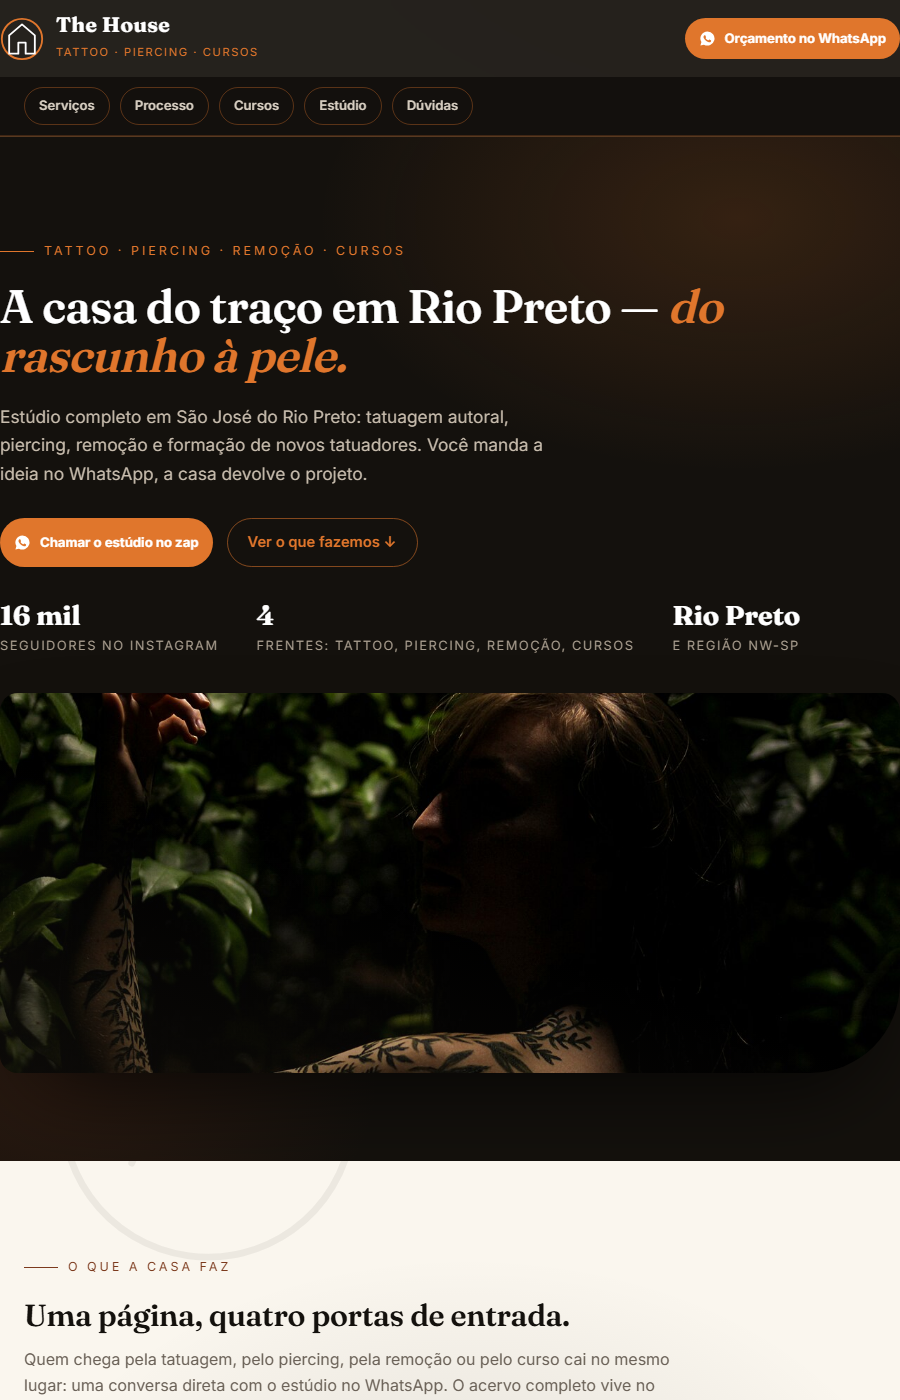
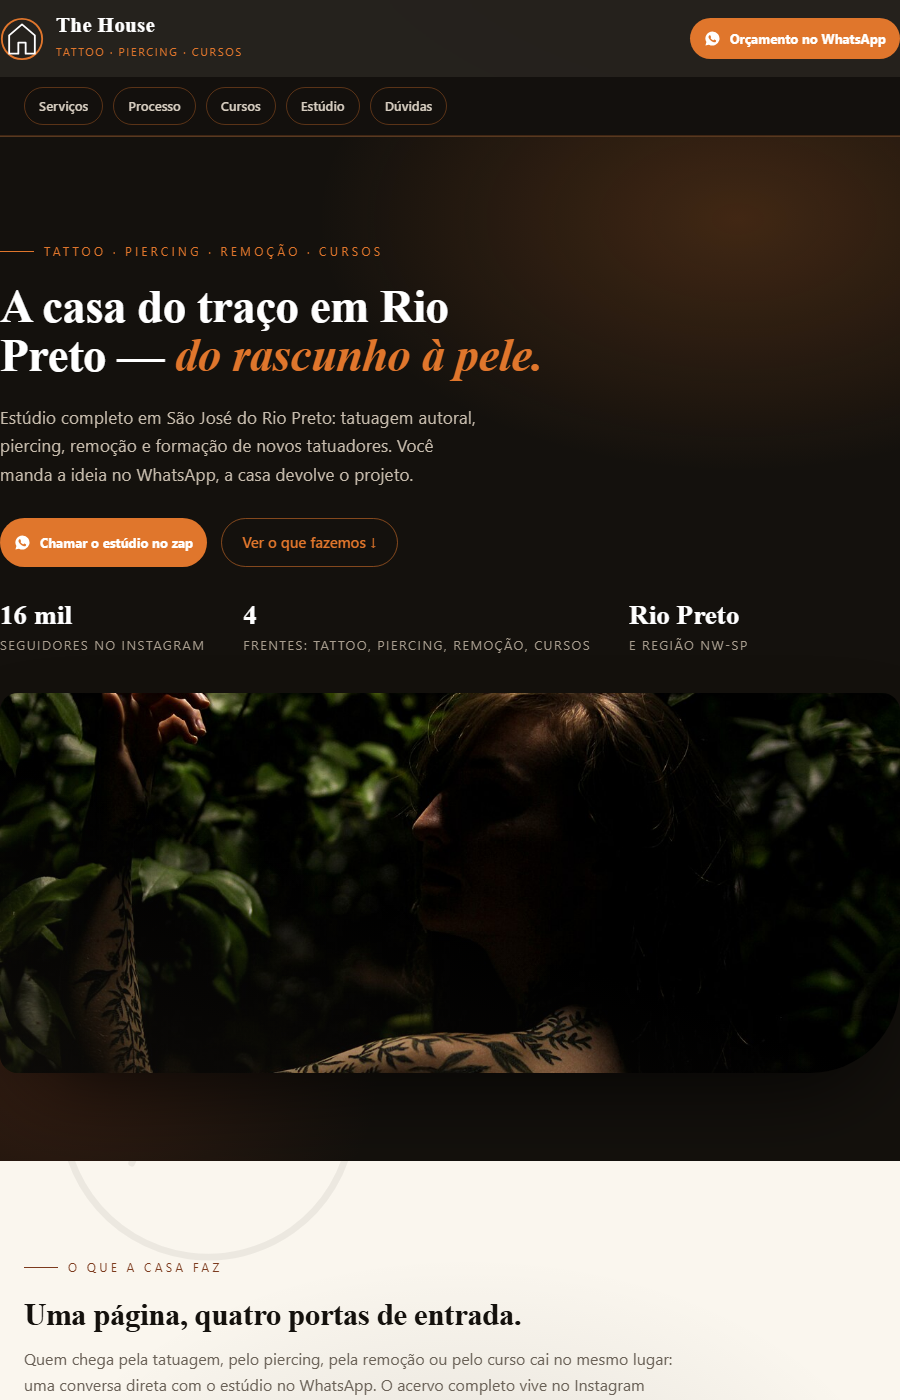
protos: publica the-house,moiseis-ink-style (gate R5: 0/10 1/10 )

diff --git a/p/moiseis-ink-style/index.html b/p/moiseis-ink-style/index.html
@@ -53,10 +53,10 @@ html{scroll-behavior:smooth}
 body{font-family:'Inter',system-ui,sans-serif;color:var(--steel);background:var(--paper);line-height:1.65}
 img{max-width:100%;display:block}
 a{text-decoration:none;color:inherit}
-h1,h2,h3,.disp{font-family:'Fraunces',serif;font-weight:600;letter-spacing:-.01em}
+h1,h2,h3,.disp{font-family:'Fraunces',serif;font-weight:600;letter-spacing:-.01em;text-wrap:balance}
 .wrap{max-width:1120px;margin:0 auto;padding:0 24px}
 /* layered ambient background: ink in water */
-.bg{position:fixed;inset:0;z-index:-1;background:
+.bg{position:fixed;inset:0;z-index:-1;overflow:hidden;background:
   radial-gradient(960px 500px at 88% -6%, rgba(208,69,62,.10), transparent 60%),
   radial-gradient(780px 440px at -6% 28%, rgba(124,135,148,.14), transparent 58%),
   radial-gradient(720px 500px at 54% 110%, rgba(14,17,22,.09), transparent 60%),
@@ -70,7 +70,7 @@ header{position:sticky;top:0;z-index:60;background:rgba(14,17,22,.93);backdrop-f
 .brand{display:flex;align-items:center;gap:12px;color:#fff}
 .logo{width:44px;height:44px;flex:none}
 .brand b{font-family:'Fraunces';font-size:1.3rem;letter-spacing:.02em;display:block;line-height:1.1}
-.brand small{color:var(--crimson);font-size:.7rem;letter-spacing:.22em;text-transform:uppercase}
+.brand small{color:#e56a62;font-size:.7rem;letter-spacing:.22em;text-transform:uppercase}
 nav{display:flex;gap:24px;font-size:.9rem;font-weight:500}
 nav a{color:#c9d0d9;transition:color .2s}
 nav a:hover{color:var(--crimson)}
@@ -79,6 +79,7 @@ nav a:hover{color:var(--crimson)}
 .mnav a{flex:none;color:#c9d0d9;font-size:.82rem;font-weight:600;padding:7px 14px;border:1px solid rgba(208,69,62,.4);border-radius:999px;white-space:nowrap}
 .mnav a:active{background:rgba(208,69,62,.16)}
 .cta{display:inline-flex;align-items:center;gap:9px;background:var(--crimson);color:#fff;font-weight:700;font-size:.92rem;padding:11px 20px;border-radius:999px;transition:transform .18s, background .18s;white-space:nowrap}
+.cta-mini{display:none}
 .cta:hover{transform:translateY(-2px);background:#e2574f}
 .cta svg{width:17px;height:17px}
 /* hero */
@@ -96,10 +97,12 @@ nav a:hover{color:var(--crimson)}
 .ghost{display:inline-flex;align-items:center;gap:9px;border:1px solid rgba(208,69,62,.55);color:var(--crimson);font-weight:600;font-size:.92rem;padding:11px 20px;border-radius:999px}
 .ghost:hover{background:rgba(208,69,62,.12)}
 .hero-img{position:relative;border-radius:18px 18px 90px 18px;overflow:hidden;box-shadow:0 40px 90px -30px rgba(0,0,0,.75)}
-.hero-img img{width:100%;height:520px;object-fit:cover;object-position:center 32%}
+.hero-img img{width:100%;height:520px;object-fit:cover;object-position:center 32%;filter:brightness(1.28) contrast(1.04) saturate(1.05)}
+.hero .eyebrow{color:#e56a62}
+.hero .eyebrow::before{background:#e56a62}
 .hero-img::after{content:"";position:absolute;inset:0;background:linear-gradient(200deg,transparent 55%,rgba(14,17,22,.55))}
 .stats{display:flex;gap:38px;margin-top:34px;flex-wrap:wrap}
-.stat b{font-family:'Fraunces';font-size:1.7rem;color:#fff;display:block;line-height:1.1}
+.stat b{font-family:'Fraunces';font-size:1.7rem;color:#fff;display:block;line-height:1.1;font-variant-numeric:lining-nums;font-feature-settings:"lnum" 1}
 .stat span{font-size:.8rem;letter-spacing:.12em;text-transform:uppercase;color:#8d99a6}
 /* sections */
 section{padding:88px 0}
@@ -109,13 +112,13 @@ section{padding:88px 0}
 .sec-head h2{font-size:clamp(1.8rem,3.4vw,2.6rem);line-height:1.12}
 .sec-head p{margin-top:14px;color:var(--mut)}
 .grid3{display:grid;grid-template-columns:repeat(3,1fr);gap:22px}
-.card{background:#fff;border:1px solid var(--line);border-radius:16px;overflow:hidden;transition:transform .2s,box-shadow .2s}
+.card{background:#fff;border:1px solid var(--line);border-radius:16px;overflow:hidden;transition:transform .2s,box-shadow .2s;display:flex;flex-direction:column}
 .card:hover{transform:translateY(-4px);box-shadow:0 24px 48px -20px rgba(14,17,22,.26)}
 .card img{height:250px;width:100%;object-fit:cover}
-.card .body{padding:20px 22px 24px}
+.card .body{padding:20px 22px 24px;display:flex;flex-direction:column;flex:1}
 .card h3{font-size:1.22rem;margin-bottom:8px}
 .card p{color:var(--mut);font-size:.95rem}
-.card a.pricelink{display:inline-flex;align-items:center;gap:7px;margin-top:14px;font-weight:700;font-size:.88rem;color:var(--oxblood)}
+.card a.pricelink{display:inline-flex;align-items:center;gap:7px;margin-top:auto;padding-top:14px;font-weight:700;font-size:.88rem;color:var(--oxblood)}
 .tag{display:inline-block;font-size:.72rem;font-weight:600;letter-spacing:.14em;text-transform:uppercase;color:var(--oxblood);background:rgba(138,38,34,.08);padding:5px 12px;border-radius:999px;margin-bottom:12px}
 /* process */
 .process{background:var(--steel);color:var(--bone)}
@@ -130,7 +133,7 @@ section{padding:88px 0}
 /* artist split */
 .split{display:grid;grid-template-columns:1fr 1fr;gap:56px;align-items:center}
 .split .pic{border-radius:16px 90px 16px 16px;overflow:hidden;box-shadow:0 30px 60px -24px rgba(14,17,22,.42)}
-.split .pic img{width:100%;height:440px;object-fit:cover}
+.split .pic img{width:100%;height:440px;object-fit:cover;filter:brightness(1.12) contrast(1.05)}
 .split h2{font-size:clamp(1.7rem,3vw,2.4rem);margin-bottom:16px}
 .split p{color:var(--mut);margin-bottom:14px}
 .check{list-style:none;margin:20px 0 28px}
@@ -179,6 +182,11 @@ footer{background:var(--steel);color:#8d99a6;padding:56px 0 40px;font-size:.9rem
   .hero-grid{padding:64px 0 56px}
   .quote{padding:34px}
   .stats{gap:22px}
+  .cta-full{display:none}
+  .cta-mini{display:inline}
+  header .cta{padding:10px 14px;font-size:.8rem}
+  .mnav{gap:6px;padding:10px 12px}
+  .mnav a{padding:6px 10px;font-size:.74rem}
 }
 </style>
 </head>
@@ -202,7 +210,7 @@ footer{background:var(--steel);color:#8d99a6;padding:56px 0 40px;font-size:.9rem
     </nav>
     <a class="cta" href="https://wa.me/5517991542307?text=Ol%C3%A1%2C%20Moiseis!%20Quero%20um%20or%C3%A7amento%20de%20tatuagem." target="_blank" rel="noopener">
       <svg viewBox="0 0 24 24" fill="currentColor" aria-hidden="true"><path d="M12 2a10 10 0 0 0-8.6 15.1L2 22l5-1.3A10 10 0 1 0 12 2Zm5.2 14.1c-.2.6-1.3 1.2-1.8 1.2-.5.1-1 .2-3.3-.7-2.8-1.1-4.5-3.9-4.7-4.1-.1-.2-1-1.4-1-2.6 0-1.2.6-1.8.9-2.1.2-.2.5-.3.7-.3h.5c.2 0 .4 0 .6.5l.8 1.9c.1.2.1.4 0 .5l-.4.6c-.1.2-.3.3-.1.6.1.3.7 1.1 1.5 1.7 1 .8 1.7 1.1 2 1.2.2.1.4.1.6-.1l.7-.8c.2-.2.4-.2.6-.1l1.8.9c.3.1.4.2.5.3-.1.2-.1.8-.5 1.4Z"/></svg>
-      Orçamento no WhatsApp
+      <span class="cta-full">Orçamento no WhatsApp</span><span class="cta-mini">Orçamento</span>
     </a>
   </div>
   <nav class="mnav" aria-label="Navegação mobile">
@@ -274,7 +282,8 @@ footer{background:var(--steel);color:#8d99a6;padding:56px 0 40px;font-size:.9rem
         </article>
         <article class="card">
           <img src="https://thumb.wikimedia.org/wikipedia/commons/thumb/2/22/00B-Axys_Valhalia_pen_rotary_style_tattoo_machine_with_tape_wrapped_around_tattoo_machine_to_increase_hand_stability_and_ergonomic_health.jpg/960px-00B-Axys_Valhalia_pen_rotary_style_tattoo_machine_with_tape_wrapped_around_tattoo_machine_to_increase_hand_stability_and_ergonomic_health.jpg" alt="Caneta rotary com wrap sanitário em luva — assepsia visível, imagem ilustrativa (CC Wikimedia)" loading="lazy">
-          <div class="body"><span class="tag">Estúdio</span><h3>Ambiente próprio, assepsia visível</h3><p>Material descartável, equipamento wrapado e sala reservada — higiene que você vê antes de deitar.</p></div>
+          <div class="body"><span class="tag">Estúdio</span><h3>Ambiente próprio, assepsia visível</h3><p>Material descartável, equipamento wrapado e sala reservada — higiene que você vê antes de deitar.</p>
+            <a class="pricelink" href="https://wa.me/5517991542307?text=Ol%C3%A1!%20Quero%20conhecer%20o%20est%C3%BAdio%20e%20agendar." target="_blank" rel="noopener">Conhecer o estúdio →</a></div>
         </article>
       </div>
     </div>

diff --git a/p/the-house/index.html b/p/the-house/index.html
@@ -55,10 +55,10 @@ html{scroll-behavior:smooth}
 body{font-family:'Inter',system-ui,sans-serif;color:var(--void);background:var(--paper);line-height:1.65}
 img{max-width:100%;display:block}
 a{text-decoration:none;color:inherit}
-h1,h2,h3,.disp{font-family:'Fraunces',serif;font-weight:600;letter-spacing:-.01em}
+h1,h2,h3,.disp{font-family:'Fraunces',serif;font-weight:600;letter-spacing:-.01em;text-wrap:balance}
 .wrap{max-width:1120px;margin:0 auto;padding:0 24px}
 /* layered ambient background: ember light through smoke */
-.bg{position:fixed;inset:0;z-index:-1;background:
+.bg{position:fixed;inset:0;z-index:-1;overflow:hidden;background:
   radial-gradient(980px 520px at 90% -8%, rgba(224,118,44,.14), transparent 60%),
   radial-gradient(820px 460px at -8% 26%, rgba(124,58,29,.10), transparent 58%),
   radial-gradient(760px 520px at 52% 112%, rgba(20,17,13,.10), transparent 60%),
@@ -81,18 +81,19 @@ nav a:hover{color:var(--ember)}
 .mnav a{flex:none;color:#d8cfc2;font-size:.82rem;font-weight:600;padding:7px 14px;border:1px solid rgba(224,118,44,.35);border-radius:999px;white-space:nowrap}
 .mnav a:active{background:rgba(224,118,44,.18)}
 .cta{display:inline-flex;align-items:center;gap:9px;background:var(--ember);color:#fff;font-weight:700;font-size:.92rem;padding:11px 20px;border-radius:999px;transition:transform .18s, background .18s;white-space:nowrap}
+.cta-mini{display:none}
 .cta:hover{transform:translateY(-2px);background:#f08a42}
 .cta svg{width:17px;height:17px}
 /* hero */
 .hero{position:relative;color:var(--bone);overflow:hidden;background:var(--void)}
 .hero::before{content:"";position:absolute;inset:0;background:
-  radial-gradient(700px 420px at 82% 8%, rgba(224,118,44,.16), transparent 60%),
-  radial-gradient(560px 380px at 6% 92%, rgba(124,58,29,.22), transparent 58%);}
+  radial-gradient(700px 420px at 82% 8%, rgba(224,118,44,.22), transparent 60%),
+  radial-gradient(560px 380px at 6% 92%, rgba(124,58,29,.30), transparent 58%);}
 .hero-grid{position:relative;display:grid;grid-template-columns:1.05fr .95fr;gap:56px;align-items:center;padding:96px 0 88px}
 .eyebrow{display:inline-flex;align-items:center;gap:10px;font-size:.78rem;letter-spacing:.24em;text-transform:uppercase;color:var(--ember);margin-bottom:20px}
 .eyebrow::before{content:"";width:34px;height:1px;background:var(--ember)}
 .hero h1{font-size:clamp(2.4rem,5.2vw,4.1rem);line-height:1.06;color:#fff}
-.hero h1 em{font-style:italic;color:var(--ember)}
+.hero h1 em{font-style:italic;color:var(--ember);white-space:nowrap}
 .hero p.lead{margin:22px 0 30px;color:#c8bdae;font-size:1.08rem;max-width:52ch}
 .hero-cta{display:flex;gap:14px;flex-wrap:wrap}
 .ghost{display:inline-flex;align-items:center;gap:9px;border:1px solid rgba(224,118,44,.55);color:var(--ember);font-weight:600;font-size:.92rem;padding:11px 20px;border-radius:999px}
@@ -101,7 +102,7 @@ nav a:hover{color:var(--ember)}
 .hero-img img{width:100%;height:520px;object-fit:cover;object-position:center 30%}
 .hero-img::after{content:"";position:absolute;inset:0;background:linear-gradient(200deg,transparent 55%,rgba(20,17,13,.6))}
 .stats{display:flex;gap:38px;margin-top:34px;flex-wrap:wrap}
-.stat b{font-family:'Fraunces';font-size:1.7rem;color:#fff;display:block;line-height:1.1}
+.stat b{font-family:'Fraunces';font-size:1.7rem;color:#fff;display:block;line-height:1.1;font-variant-numeric:lining-nums;font-feature-settings:"lnum" 1}
 .stat span{font-size:.8rem;letter-spacing:.12em;text-transform:uppercase;color:#a99e8f}
 /* sections */
 section{padding:88px 0}
@@ -112,13 +113,13 @@ section{padding:88px 0}
 .sec-head p{margin-top:14px;color:var(--mut)}
 /* services grid */
 .grid3{display:grid;grid-template-columns:repeat(3,1fr);gap:22px}
-.card{background:#fff;border:1px solid var(--line);border-radius:16px;overflow:hidden;transition:transform .2s,box-shadow .2s}
+.card{background:#fff;border:1px solid var(--line);border-radius:16px;overflow:hidden;transition:transform .2s,box-shadow .2s;display:flex;flex-direction:column}
 .card:hover{transform:translateY(-4px);box-shadow:0 24px 48px -20px rgba(20,17,13,.28)}
 .card img{height:250px;width:100%;object-fit:cover}
-.card .body{padding:20px 22px 24px}
+.card .body{padding:20px 22px 24px;display:flex;flex-direction:column;flex:1}
 .card h3{font-size:1.22rem;margin-bottom:8px}
 .card p{color:var(--mut);font-size:.95rem}
-.card a.pricelink{display:inline-flex;align-items:center;gap:7px;margin-top:14px;font-weight:700;font-size:.88rem;color:var(--ember2)}
+.card a.pricelink{display:inline-flex;align-items:center;gap:7px;margin-top:auto;padding-top:14px;font-weight:700;font-size:.88rem;color:var(--ember2)}
 .tag{display:inline-block;font-size:.72rem;font-weight:600;letter-spacing:.14em;text-transform:uppercase;color:var(--rust);background:rgba(124,58,29,.09);padding:5px 12px;border-radius:999px;margin-bottom:12px}
 /* process */
 .process{background:var(--void);color:var(--bone)}
@@ -182,6 +183,12 @@ footer{background:var(--void);color:#a99e8f;padding:56px 0 40px;font-size:.9rem}
   .hero-grid{padding:64px 0 56px}
   .quote{padding:34px}
   .stats{gap:22px}
+  .cta-full{display:none}
+  .cta-mini{display:inline}
+  header .cta{padding:10px 14px;font-size:.8rem}
+  .hero h1 em{white-space:normal}
+  .mnav{gap:6px;padding:10px 12px}
+  .mnav a{padding:6px 10px;font-size:.74rem}
 }
 </style>
 </head>
@@ -206,7 +213,7 @@ footer{background:var(--void);color:#a99e8f;padding:56px 0 40px;font-size:.9rem}
     </nav>
     <a class="cta" href="https://wa.me/5517991854618?text=Ol%C3%A1%2C%20The%20House!%20Quero%20um%20or%C3%A7amento%20de%20tatuagem." target="_blank" rel="noopener">
       <svg viewBox="0 0 24 24" fill="currentColor" aria-hidden="true"><path d="M12 2a10 10 0 0 0-8.6 15.1L2 22l5-1.3A10 10 0 1 0 12 2Zm5.2 14.1c-.2.6-1.3 1.2-1.8 1.2-.5.1-1 .2-3.3-.7-2.8-1.1-4.5-3.9-4.7-4.1-.1-.2-1-1.4-1-2.6 0-1.2.6-1.8.9-2.1.2-.2.5-.3.7-.3h.5c.2 0 .4 0 .6.5l.8 1.9c.1.2.1.4 0 .5l-.4.6c-.1.2-.3.3-.1.6.1.3.7 1.1 1.5 1.7 1 .8 1.7 1.1 2 1.2.2.1.4.1.6-.1l.7-.8c.2-.2.4-.2.6-.1l1.8.9c.3.1.4.2.5.3-.1.2-.1.8-.5 1.4Z"/></svg>
-      Orçamento no WhatsApp
+      <span class="cta-full">Orçamento no WhatsApp</span><span class="cta-mini">Orçamento</span>
     </a>
   </div>
   <nav class="mnav" aria-label="Navegação mobile">
@@ -382,7 +389,7 @@ footer{background:var(--void);color:#a99e8f;padding:56px 0 40px;font-size:.9rem}
       </details>
       <details>
         <summary>Onde fica o estúdio?</summary>
-        <p>Av. das Hortências, 743 — São José do Rio Preto/SP. Horário de atendimento e dia de curso você confirma no zap antes de vir.</p>
+        <p><a href="https://www.google.com/maps/search/?api=1&query=Av.+das+Hort%C3%AAncias+743+S%C3%A3o+Jos%C3%A9+do+Rio+Preto" target="_blank" rel="noopener" style="color:#e0762c;text-decoration:underline;text-underline-offset:3px">Av. das Hortências, 743</a> — São José do Rio Preto/SP. Horário de atendimento e dia de curso você confirma no zap antes de vir.</p>
       </details>
     </div>
   </section>
